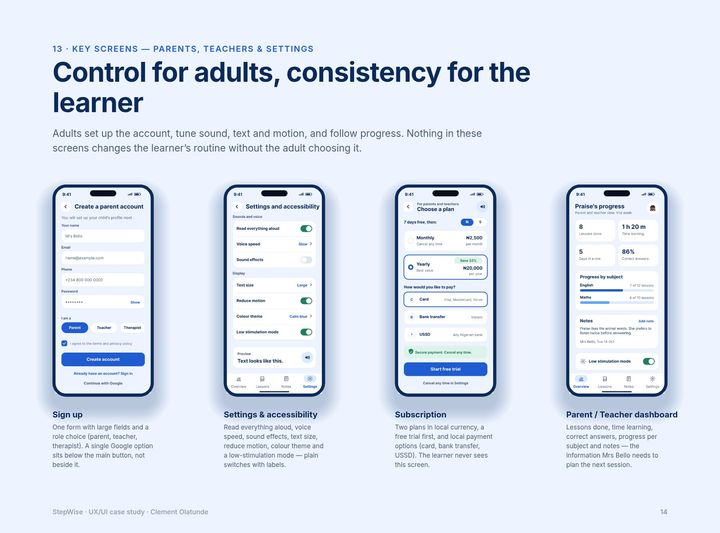
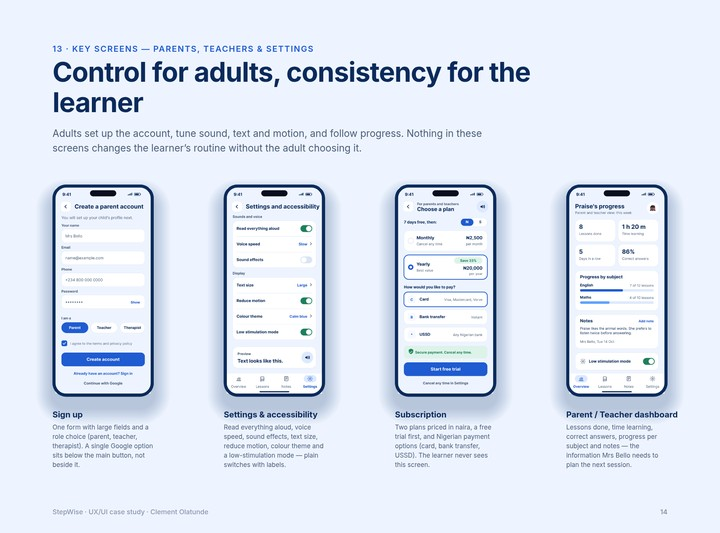
StepWise sub-page: swap the 18 case-study boards to the Nigeria version (new JPGs at 720/1280/1920 for the 9 changed boards; board 03 caption now cites WHO / W3C COGA / TEACCH and the Nigerian studies; intrinsic heights updated for boards 02, 03, 05, 17)

Changed region(s): [[0.55, 0.7805, 0.6722, 0.8405]]

diff --git a/stepwise/index.html b/stepwise/index.html
@@ -71,15 +71,15 @@
         </figure>
         <figure class="sw-board" id="b02">
           <a href="img/02-overview-1920.jpg" aria-label="Open board 02, Overview, full size">
-            <img src="img/02-overview-1280.jpg" srcset="img/02-overview-720.jpg 720w, img/02-overview-1280.jpg 1280w, img/02-overview-1920.jpg 1920w" sizes="(min-width: 1120px) 1080px, 100vw" width="1920" height="1319" alt="StepWise case study board 02: Overview" loading="lazy" decoding="async">
+            <img src="img/02-overview-1280.jpg" srcset="img/02-overview-720.jpg 720w, img/02-overview-1280.jpg 1280w, img/02-overview-1920.jpg 1920w" sizes="(min-width: 1120px) 1080px, 100vw" width="1920" height="1383" alt="StepWise case study board 02: Overview" loading="lazy" decoding="async">
           </a>
           <figcaption><span class="sw-num">02</span> <strong>Overview</strong><span class="sw-cap">30 high-fidelity iOS screens (390&times;844) in Figma, plus a design system and an accessibility checklist against WCAG 2.2.</span></figcaption>
         </figure>
         <figure class="sw-board" id="b03">
           <a href="img/03-problem-1920.jpg" aria-label="Open board 03, The problem, full size">
-            <img src="img/03-problem-1280.jpg" srcset="img/03-problem-720.jpg 720w, img/03-problem-1280.jpg 1280w, img/03-problem-1920.jpg 1920w" sizes="(min-width: 1120px) 1080px, 100vw" width="1920" height="1560" alt="StepWise case study board 03: The problem" loading="lazy" decoding="async">
+            <img src="img/03-problem-1280.jpg" srcset="img/03-problem-720.jpg 720w, img/03-problem-1280.jpg 1280w, img/03-problem-1920.jpg 1920w" sizes="(min-width: 1120px) 1080px, 100vw" width="1920" height="1765" alt="StepWise case study board 03: The problem" loading="lazy" decoding="async">
           </a>
-          <figcaption><span class="sw-num">03</span> <strong>The problem</strong><span class="sw-cap">Most learning apps are designed to excite: bright palettes, confetti, autoplaying sound, dense text and a different layout on every screen. Published guidance on designing for autistic users (GOV.UK, National Autistic Society, TEACCH) says the opposite is needed: simple colours, plain language, visual structure, predictability and a way to withdraw when overwhelmed.</span></figcaption>
+          <figcaption><span class="sw-num">03</span> <strong>The problem</strong><span class="sw-cap">Most learning apps are designed to excite: bright palettes, confetti, autoplaying sound, dense text and a different layout on every screen. Published guidance on designing for autistic users (WHO, W3C COGA, TEACCH) says the opposite is needed: simple colours, plain language, visual structure, predictability and a way to withdraw when overwhelmed. Why it matters in Nigeria: the WHO estimates about 1 in 127 people worldwide are autistic, and Nigerian studies (Bakare 2019; Oduyemi 2021, a survey of 230 Lagos parents) report late diagnosis, stigma and poor access to care.</span></figcaption>
         </figure>
         <figure class="sw-board" id="b04">
           <a href="img/04-principles-1920.jpg" aria-label="Open board 04, Goals and design principles, full size">
@@ -89,7 +89,7 @@
         </figure>
         <figure class="sw-board" id="b05">
           <a href="img/05-research-1920.jpg" aria-label="Open board 05, Research insights (secondary research), full size">
-            <img src="img/05-research-1280.jpg" srcset="img/05-research-720.jpg 720w, img/05-research-1280.jpg 1280w, img/05-research-1920.jpg 1920w" sizes="(min-width: 1120px) 1080px, 100vw" width="1920" height="1917" alt="StepWise case study board 05: Research insights (secondary research)" loading="lazy" decoding="async">
+            <img src="img/05-research-1280.jpg" srcset="img/05-research-720.jpg 720w, img/05-research-1280.jpg 1280w, img/05-research-1920.jpg 1920w" sizes="(min-width: 1120px) 1080px, 100vw" width="1920" height="2423" alt="StepWise case study board 05: Research insights (secondary research)" loading="lazy" decoding="async">
           </a>
           <figcaption><span class="sw-num">05</span> <strong>Research insights (secondary research)</strong><span class="sw-cap">Insights from published sources, each one cited. A usability test is planned, not yet run.</span></figcaption>
         </figure>
@@ -161,7 +161,7 @@
         </figure>
         <figure class="sw-board" id="b17">
           <a href="img/17-sources-credits-1920.jpg" aria-label="Open board 17, Sources and credits, full size">
-            <img src="img/17-sources-credits-1280.jpg" srcset="img/17-sources-credits-720.jpg 720w, img/17-sources-credits-1280.jpg 1280w, img/17-sources-credits-1920.jpg 1920w" sizes="(min-width: 1120px) 1080px, 100vw" width="1920" height="1440" alt="StepWise case study board 17: Sources and credits" loading="lazy" decoding="async">
+            <img src="img/17-sources-credits-1280.jpg" srcset="img/17-sources-credits-720.jpg 720w, img/17-sources-credits-1280.jpg 1280w, img/17-sources-credits-1920.jpg 1920w" sizes="(min-width: 1120px) 1080px, 100vw" width="1920" height="1562" alt="StepWise case study board 17: Sources and credits" loading="lazy" decoding="async">
           </a>
           <figcaption><span class="sw-num">17</span> <strong>Sources and credits</strong><span class="sw-cap">Every source cited, plus illustration and photo credits.</span></figcaption>
         </figure>
